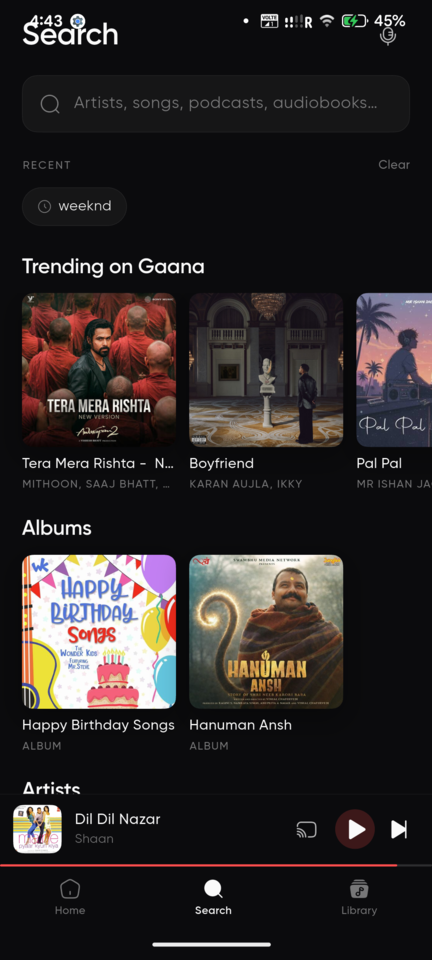
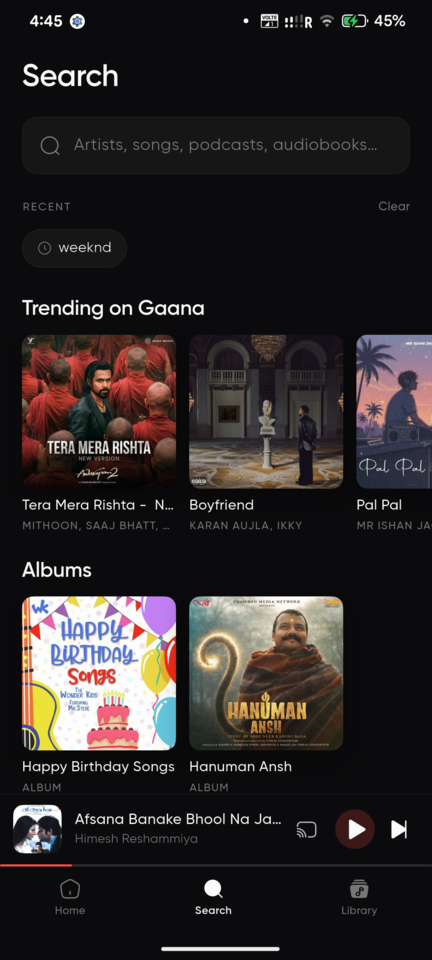
Remove the search voice button
It was wired to an empty onTap and had never done anything. An affordance that
does nothing when tapped is worse than an absent one.

diff --git a/lib/screens/search_screen.dart b/lib/screens/search_screen.dart
@@ -155,26 +155,18 @@ class _SearchScreenState extends ConsumerState<SearchScreen> {
       child: Column(
         crossAxisAlignment: CrossAxisAlignment.start,
         children: [
+          // No voice button: it was wired to an empty onTap and had never done
+          // anything. An affordance that does nothing when tapped is worse
+          // than an absent one.
           Padding(
             padding: const EdgeInsets.fromLTRB(20, 12, 20, 0),
-            child: Row(
-              mainAxisAlignment: MainAxisAlignment.spaceBetween,
-              children: [
-                Text(
-                  'Search',
-                  style: SunohType.heading(
-                    fontSize: 28,
-                    color: c.fg,
-                    letterSpacing: -0.4,
-                  ),
-                ),
-                IconBtn(
-                  icon: SolarIconsOutline.microphone,
-                  color: c.fgDim,
-                  size: 20,
-                  onTap: () {},
-                ),
-              ],
+            child: Text(
+              'Search',
+              style: SunohType.heading(
+                fontSize: 28,
+                color: c.fg,
+                letterSpacing: -0.4,
+              ),
             ),
           ),
           Padding(
